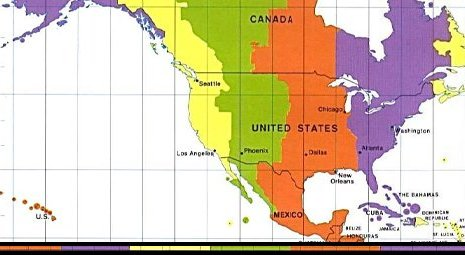
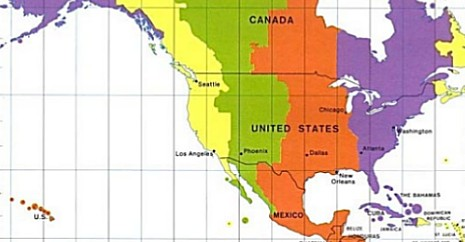
ICE-1416 - reformating source code and added constants for map coordinate vars.  Also updated North American image; removed bottom colour bar.
git-svn-id: http://anonsvn.icesoft.org/repo/icefaces/trunk@13601 8668f098-c06c-11db-ba21-f49e70c34f74

diff --git a/icefaces/samples/tutorial/timezone1/src/com/icesoft/tutorial/TimeZoneBean.java b/icefaces/samples/tutorial/timezone1/src/com/icesoft/tutorial/TimeZoneBean.java
@@ -35,7 +35,6 @@ package com.icesoft.tutorial;
 
 import java.awt.Polygon;
 import java.util.Map;
-import javax.faces.component.UIComponent;
 import javax.faces.context.FacesContext;
 import javax.faces.event.ActionEvent;
 import java.text.DateFormat;
@@ -76,7 +75,7 @@ public class TimeZoneBean {
      * the map UI.
      */
     private ArrayList allTimeZoneList;
-    
+
     /**
      * Polygon objects that represent the Time Zone areas on the map.
      */
@@ -86,7 +85,7 @@ public class TimeZoneBean {
     private Polygon mountain;
     private Polygon central;
     private Polygon eastern;
-    
+
     /**
      * Secondary polygon objects that represent the colored tabs on the map
      */
@@ -96,7 +95,7 @@ public class TimeZoneBean {
     private Polygon mountainTab;
     private Polygon centralTab;
     private Polygon easternTab;
-            
+
 
     /**
      * Constructor initializes time zones.
@@ -111,12 +110,12 @@ public class TimeZoneBean {
     private void init() {
         serverTimeZone = TimeZone.getDefault();
         serverFormat = buildDateFormatForTimeZone(serverTimeZone);
-        selectedTimeZone = TimeZone.getTimeZone(
-                "Etc/GMT+0"); // selected time zone set to UTC as default
+        // selected time zone set to UTC as default
+        selectedTimeZone = TimeZone.getTimeZone("Etc/GMT+0");
         selectedFormat = buildDateFormatForTimeZone(selectedTimeZone);
 
         // Entries in this list are hardcoded to match entries in
-        //  the timezone web file, so no parameters can be changed.
+        // the timezone web file, so no parameters can be changed.
         allTimeZoneList = new ArrayList(6);
         allTimeZoneList
                 .add(new TimeZoneWrapper("Pacific/Honolulu", "GMTminus10"));
@@ -130,88 +129,25 @@ public class TimeZoneBean {
                 .add(new TimeZoneWrapper("America/Chicago", "GMTminus6"));
         allTimeZoneList
                 .add(new TimeZoneWrapper("America/New_York", "GMTminus5"));
-        //Create main polygon objects
-        int[] hawaiiXCoords = {0,29,54,58,58,61,61,0};
-        int[] hawaiiYCoords = {186,194,208,215,223,243,254,254};
+
+        // create main timezone outlines
         hawaii = new Polygon(hawaiiXCoords, hawaiiYCoords, hawaiiXCoords.length);
-        int[] alaskaXCoords = {117,118,125,132,135,138,141,146,147,157,164,165,
-                                        162,156,144,120,75,72,60,45,1,0,0,14};
-        int[] alaskaYCoords = {0,4,5,12,12,8,7,14,14,28,31,37,38,41,41,16,16,25,
-                                        35,38,55,55,1,0};
         alaska = new Polygon(alaskaXCoords, alaskaYCoords, alaskaXCoords.length);
-        int[] pacificXCoords = {176,176,187,187,181,185,191,192,207,207,214,214,
-                                        218,222,222,221,221,222,224,230,229,225,
-                                        222,219,220,218,214,214,219,107,219,232,
-                                        231,230,228,228,229,228,226,226,229,231,
-                                        238,233,226,217,205,198,195,197,194,187,
-                                        188,189,190,186,169,152,145,158,164,164,
-                                        155,141,136,134,132,125,118,118};
-        int[] pacificYCoords = {0,3,3,7,7,20,19,25,32,43,47,50,54,59,64,68,67,
-                                        71,71,80,86,90,92,89,90,93,95,97,106,
-                                        107,112,112,137,139,140,148,149,157,158,
-                                        162,163,171,179,179,171,154,148,138,133,
-                                        130,130,118,114,103,88,77,61,54,41,41,
-                                        37,32,25,7,9,11,11,4,4,0};
-        pacific = new Polygon(pacificXCoords, pacificYCoords, pacificXCoords.length);
-        int[] mountainXCoords = {177,287,287,268,268,258,259,249,249,254,254,
-                                        250,253,250,253,254,250,250,277,277,284,
-                                        289,288,290,290,285,286,281,281,272,270,
-                                        265,258,256,256,264,263,268,269,275,276,
-                                        272,244,216,217,231,218,226,232,239,230,
-                                        228,230,230,228,229,231,233,220,220,215,
-                                        215,221,220,223,225,231,231,225,222,222,
-                                        215,215,208,208,193,192,185,182,182,189,
-                                        189};
-        int[] mountainYCoords = {0,0,8,8,45,45,41,40,48,48,52,52,63,63,63,69,69,
-                                        75,75,80,81,86,98,101,110,116,137,138,
-                                        160,160,164,161,161,165,181,190,194,198,
-                                        201,204,210,214,233,231,216,208,176,174,
-                                        179,179,163,158,153,147,144,140,139,109,
-                                        110,106,104,98,93,89,91,93,88,84,77,70,
-                                        61,53,48,44,41,30,24,16,17,8,7,2};
-        mountain = new Polygon(mountainXCoords, mountainYCoords, mountainXCoords.length);
-        int[] centralXCoords = {288,317,314,314,321,325,330,340,336,336,338,346,
-                                        348,349,350,351,347,347,357,356,358,357,
-                                        352,378,380,381,291,291,269,277,276,269,
-                                        264,264,257,257,260,267,270,273,283,282,
-                                        287,286,292,291,289,290,284,277,277,252,
-                                        252,255,255,252,255,255,251,251,256,256,
-                                        270,270,289};
-        int[] centralYCoords = {0,0,9,15,15,26,25,30,35,74,86,89,94,111,113,115,
-                                        118,129,137,145,155,170,210,242,243,252,
-                                        252,241,217,210,203,198,193,189,179,164,
-                                        162,163,165,163,162,139,138,116,109,98,
-                                        97,85,78,78,72,73,69,69,62,54,52,47,46,
-                                        41,43,47,47,9,9};
-        central = new Polygon(centralXCoords, centralYCoords, centralXCoords.length);
-        int[] easternXCoords = {388,417,446,446,449,447,448,447,450,449,442,438,
-                                        431,437,437,446,447,449,449,450,451,441,
-                                        429,430,433,433,435,424,419,415,415,463,
-                                        464,382,381,353,360,357,359,348,348,353,
-                                        349,348,340,337,337,341,373};
-        int[] easternYCoords = {0,0,5,10,16,19,21,28,36,41,40,38,44,52,57,57,51,
-                                        50,54,66,74,78,81,83,84,91,96,209,215,
-                                        216,226,242,255,253,241,208,154,144,136,
-                                        127,118,114,110,92,84,78,35,29,9};
-        eastern = new Polygon(easternXCoords, easternYCoords, easternXCoords.length);
-        //Create secondary polygon objects for the bottom tabs
-        int[] hawaiiTabX = {0,61,61,0};
-        int[] hawaiiTabY = {242,242,254,254};
+        pacific = new Polygon(pacificXCoords, pacificYCoords,
+                              pacificXCoords.length);
+        mountain = new Polygon(mountainXCoords, mountainYCoords,
+                               mountainXCoords.length);
+        central = new Polygon(centralXCoords, centralYCoords,
+                              centralXCoords.length);
+        eastern = new Polygon(easternXCoords, easternYCoords,
+                              easternXCoords.length);
+        // Create secondary polygon objects for the bottom tabs
         hawaiiTab = new Polygon(hawaiiTabX, hawaiiTabY, hawaiiTabX.length);
-        int[] alaskaTabX = {61,131,131,61};
-        int[] alaskaTabY = {242,242,254,254};
         alaskaTab = new Polygon(alaskaTabX, alaskaTabY, alaskaTabX.length);
-        int[] pacificTabX = {131,210,210,131};
-        int[] pacificTabY = {242,242,254,254};
         pacificTab = new Polygon(pacificTabX, pacificTabY, pacificTabX.length);
-        int[] mountainTabX = {210,292,292,210};
-        int[] mountainTabY = {242,242,254,254};
-        mountainTab = new Polygon(mountainTabX, mountainTabY, mountainTabX.length);
-        int[] centralTabX = {292,381,381,292};
-        int[] centralTabY = {242,242,254,254};
+        mountainTab =
+                new Polygon(mountainTabX, mountainTabY, mountainTabX.length);
         centralTab = new Polygon(centralTabX, centralTabY, centralTabX.length);
-        int[] easternTabX = {381,464,464,381};
-        int[] easternTabY = {242,242,254,254};
         easternTab = new Polygon(easternTabX, easternTabY, easternTabX.length);
     }
 
@@ -316,45 +252,138 @@ public class TimeZoneBean {
      * @param event ActionEvent.
      */
     public void listen(ActionEvent event) {
+
         FacesContext context = FacesContext.getCurrentInstance();
         String clientId = event.getComponent().getClientId(context);
-        Map requestParams = context.getExternalContext().getRequestParameterMap();
-        int x = new Integer((String)requestParams.get(clientId + ".x")).intValue();
-        int y = new Integer((String)requestParams.get(clientId + ".y")).intValue();
-        if((hawaii.contains(x,y)) || (hawaiiTab.contains(x,y))){
+        Map requestParams =
+                context.getExternalContext().getRequestParameterMap();
+
+        // get mouse coordinate of user click
+        int x = new Integer((String) requestParams.get(clientId + ".x"))
+                .intValue();
+        int y = new Integer((String) requestParams.get(clientId + ".y"))
+                .intValue();
+
+        // compare mouse coordinate to know timzone polygons. 
+        if ((hawaii.contains(x, y)) || (hawaiiTab.contains(x, y))) {
             TimeZoneWrapper tzw = getTimeZoneWrapperByComponentId("GMTminus10");
             selectedTimeZone = TimeZone.getTimeZone(tzw.getId());
             selectedFormat = buildDateFormatForTimeZone(selectedTimeZone);
-        }
-        else if((alaska.contains(x,y)) || (alaskaTab.contains(x,y))){
+        } else if ((alaska.contains(x, y)) || (alaskaTab.contains(x, y))) {
             TimeZoneWrapper tzw = getTimeZoneWrapperByComponentId("GMTminus9");
             selectedTimeZone = TimeZone.getTimeZone(tzw.getId());
             selectedFormat = buildDateFormatForTimeZone(selectedTimeZone);
-        }
-        else if((pacific.contains(x,y))||(pacificTab.contains(x,y))){
+        } else if ((pacific.contains(x, y)) || (pacificTab.contains(x, y))) {
             TimeZoneWrapper tzw = getTimeZoneWrapperByComponentId("GMTminus8");
             selectedTimeZone = TimeZone.getTimeZone(tzw.getId());
             selectedFormat = buildDateFormatForTimeZone(selectedTimeZone);
-        }
-        else if((mountain.contains(x,y))||(mountainTab.contains(x,y))){
+        } else if ((mountain.contains(x, y)) || (mountainTab.contains(x, y))) {
             TimeZoneWrapper tzw = getTimeZoneWrapperByComponentId("GMTminus7");
             selectedTimeZone = TimeZone.getTimeZone(tzw.getId());
             selectedFormat = buildDateFormatForTimeZone(selectedTimeZone);
-        }
-        else if((central.contains(x,y))||(centralTab.contains(x,y))){
+        } else if ((central.contains(x, y)) || (centralTab.contains(x, y))) {
             TimeZoneWrapper tzw = getTimeZoneWrapperByComponentId("GMTminus6");
             selectedTimeZone = TimeZone.getTimeZone(tzw.getId());
             selectedFormat = buildDateFormatForTimeZone(selectedTimeZone);
-        }
-        else if((eastern.contains(x,y)) || (easternTab.contains(x,y))){
+        } else if ((eastern.contains(x, y)) || (easternTab.contains(x, y))) {
             TimeZoneWrapper tzw = getTimeZoneWrapperByComponentId("GMTminus5");
             selectedTimeZone = TimeZone.getTimeZone(tzw.getId());
             selectedFormat = buildDateFormatForTimeZone(selectedTimeZone);
         }
-        else{
-            //Do nothing
-        }
-        
-        
+
     }
-} // End of TimeZoneBean class
+
+    // Create primary polygon objects for continental country outlines
+    private static int[] hawaiiXCoords = {0, 29, 54, 58, 58, 61, 61, 0};
+    private static int[] hawaiiYCoords =
+            {186, 194, 208, 215, 223, 243, 254, 254};
+
+    private static int[] alaskaXCoords =
+            {117, 118, 125, 132, 135, 138, 141, 146, 147, 157, 164, 165, 162,
+             156, 144, 120, 75, 72, 60, 45, 1, 0, 0, 14};
+    private static int[] alaskaYCoords =
+            {0, 4, 5, 12, 12, 8, 7, 14, 14, 28, 31, 37, 38, 41, 41, 16, 16, 25,
+             35, 38, 55, 55, 1, 0};
+
+    private static int[] pacificXCoords =
+            {176, 176, 187, 187, 181, 185, 191, 192, 207, 207, 214, 214,
+             218, 222, 222, 221, 221, 222, 224, 230, 229, 225,
+             222, 219, 220, 218, 214, 214, 219, 107, 219, 232,
+             231, 230, 228, 228, 229, 228, 226, 226, 229, 231,
+             238, 233, 226, 217, 205, 198, 195, 197, 194, 187,
+             188, 189, 190, 186, 169, 152, 145, 158, 164, 164,
+             155, 141, 136, 134, 132, 125, 118, 118};
+    private static int[] pacificYCoords =
+            {0, 3, 3, 7, 7, 20, 19, 25, 32, 43, 47, 50, 54, 59, 64, 68, 67,
+             71, 71, 80, 86, 90, 92, 89, 90, 93, 95, 97, 106,
+             107, 112, 112, 137, 139, 140, 148, 149, 157, 158,
+             162, 163, 171, 179, 179, 171, 154, 148, 138, 133,
+             130, 130, 118, 114, 103, 88, 77, 61, 54, 41, 41,
+             37, 32, 25, 7, 9, 11, 11, 4, 4, 0};
+
+    private static int[] mountainXCoords =
+            {177, 287, 287, 268, 268, 258, 259, 249, 249, 254, 254,
+             250, 253, 250, 253, 254, 250, 250, 277, 277, 284,
+             289, 288, 290, 290, 285, 286, 281, 281, 272, 270,
+             265, 258, 256, 256, 264, 263, 268, 269, 275, 276,
+             272, 244, 216, 217, 231, 218, 226, 232, 239, 230,
+             228, 230, 230, 228, 229, 231, 233, 220, 220, 215,
+             215, 221, 220, 223, 225, 231, 231, 225, 222, 222,
+             215, 215, 208, 208, 193, 192, 185, 182, 182, 189,
+             189};
+    private static int[] mountainYCoords =
+            {0, 0, 8, 8, 45, 45, 41, 40, 48, 48, 52, 52, 63, 63, 63, 69, 69,
+             75, 75, 80, 81, 86, 98, 101, 110, 116, 137, 138,
+             160, 160, 164, 161, 161, 165, 181, 190, 194, 198,
+             201, 204, 210, 214, 233, 231, 216, 208, 176, 174,
+             179, 179, 163, 158, 153, 147, 144, 140, 139, 109,
+             110, 106, 104, 98, 93, 89, 91, 93, 88, 84, 77, 70,
+             61, 53, 48, 44, 41, 30, 24, 16, 17, 8, 7, 2};
+
+    private static int[] centralXCoords =
+            {288, 317, 314, 314, 321, 325, 330, 340, 336, 336, 338, 346,
+             348, 349, 350, 351, 347, 347, 357, 356, 358, 357,
+             352, 378, 380, 381, 291, 291, 269, 277, 276, 269,
+             264, 264, 257, 257, 260, 267, 270, 273, 283, 282,
+             287, 286, 292, 291, 289, 290, 284, 277, 277, 252,
+             252, 255, 255, 252, 255, 255, 251, 251, 256, 256,
+             270, 270, 289};
+    private static final int[] centralYCoords =
+            {0, 0, 9, 15, 15, 26, 25, 30, 35, 74, 86, 89, 94, 111, 113, 115,
+             118, 129, 137, 145, 155, 170, 210, 242, 243, 252,
+             252, 241, 217, 210, 203, 198, 193, 189, 179, 164,
+             162, 163, 165, 163, 162, 139, 138, 116, 109, 98,
+             97, 85, 78, 78, 72, 73, 69, 69, 62, 54, 52, 47, 46,
+             41, 43, 47, 47, 9, 9};
+
+    private static int[] easternXCoords =
+            {388, 417, 446, 446, 449, 447, 448, 447, 450, 449, 442, 438,
+             431, 437, 437, 446, 447, 449, 449, 450, 451, 441,
+             429, 430, 433, 433, 435, 424, 419, 415, 415, 463,
+             464, 382, 381, 353, 360, 357, 359, 348, 348, 353,
+             349, 348, 340, 337, 337, 341, 373};
+    private static int[] easternYCoords =
+            {0, 0, 5, 10, 16, 19, 21, 28, 36, 41, 40, 38, 44, 52, 57, 57, 51,
+             50, 54, 66, 74, 78, 81, 83, 84, 91, 96, 209, 215,
+             216, 226, 242, 255, 253, 241, 208, 154, 144, 136,
+             127, 118, 114, 110, 92, 84, 78, 35, 29, 9};
+
+    // Create secondary polygon objects for the bottom tabs
+    private static int[] hawaiiTabX = {0, 61, 61, 0};
+    private static int[] hawaiiTabY = {242, 242, 254, 254};
+
+    private static int[] alaskaTabX = {61, 131, 131, 61};
+    private static int[] alaskaTabY = {242, 242, 254, 254};
+
+    private static int[] pacificTabX = {131, 210, 210, 131};
+    private static int[] pacificTabY = {242, 242, 254, 254};
+
+    private static int[] mountainTabX = {210, 292, 292, 210};
+    private static int[] mountainTabY = {242, 242, 254, 254};
+
+    private static int[] centralTabX = {292, 381, 381, 292};
+    private static int[] centralTabY = {242, 242, 254, 254};
+
+    private static int[] easternTabX = {381, 464, 464, 381};
+    private static int[] easternTabY = {242, 242, 254, 254};
+}
